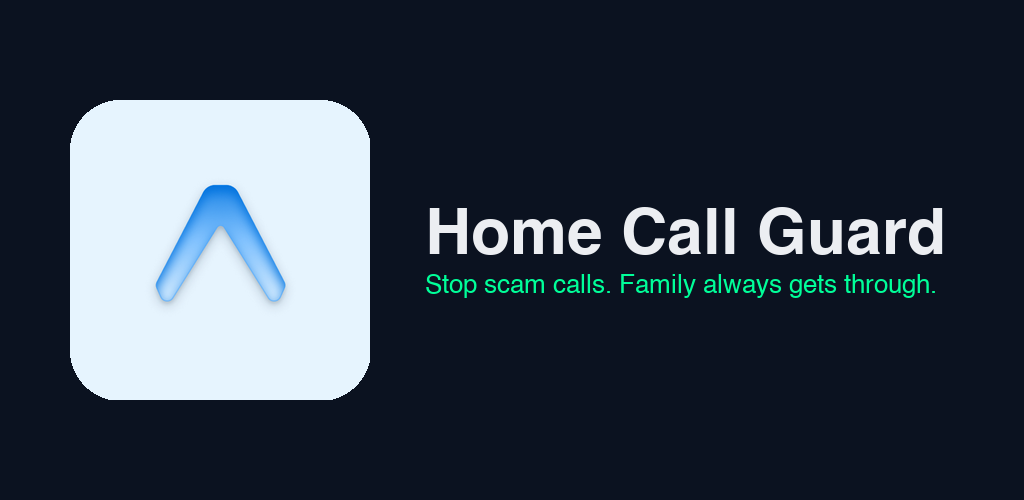
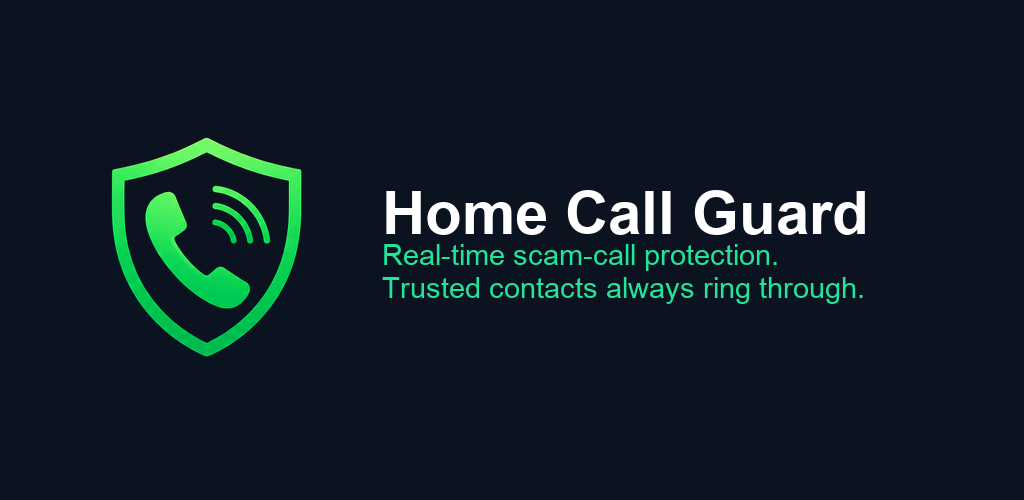
Correct Google Play visual assets to use the real green shield+phone branding
Found during a branding audit that the mobile app was shipping two
conflicting identities: the website (public/logo.png) uses a green
shield+phone mark, but the mobile app's actual configured icon
(mobile/assets/icon.png, wired up in app.config.js) is a completely
different blue chevron. Andrew decided the green shield+phone is
canonical; this work only touches Google Play Store listing assets
under docs/launch/, not the mobile app's own icon/config.

Getting the 512x512 icon right took several iterations:
- First attempt used mobile/assets/shield-mark.png directly - looked
  correct by computed padding, but still showed a clipped bottom point
  in actual Google Play.
- Found the real cause: shield-mark.png itself is a truncated source
  file, with its artwork's bottom edge at the very last pixel row and
  zero internal padding - no amount of external padding could fix it.
- Fixed by extracting the shield fresh from public/logo.png instead,
  which has the complete, genuine pointed bottom. Cropped out the
  wordmark/divider, color-keyed the flat black background to
  transparency, verified the phone's actual pixel colours (green
  gradients) against the source before using it anywhere.

Final assets, both confirmed correct by Andrew:
- docs/launch/google-play-app-icon-512.png (512x512, complete shield,
  generous padding, no cropping)
- docs/launch/play-store-feature-graphic.png (1024x500, same shield +
  "Home Call Guard" + the approved short description from
[…]

Changed region(s): [[0.0625, 0.18, 0.9375, 0.81]]

diff --git a/CURRENT_STATE.md b/CURRENT_STATE.md
@@ -601,3 +601,23 @@ Reported the exact proposed SQL and its production-impact analysis before touchi
 
 New page at `/delete-account.html`, reusing `privacy.html`/`terms.html`'s exact visual design (same CSS, header, footer). Covers: AFMD Ltd identification, how to request deletion (email support@ from the account's own address, state the account and personal data should be deleted), identity verification may be required, 30-day completion target, exactly what's deleted (account info, trusted contacts, call/screening records — now true), what's retained (billing/accounting records only, only for the legally required period), and the cancellation-vs-deletion distinction (confirmed accurate against `routes/billing.js`'s actual Stripe cancellation flow — cancelling never triggers anonymisation). `noindex, follow` (utility page, consistent with how register/login/etc. are already treated). Links to the Privacy Policy. No vendor names or implementation detail anywhere on the page. Checked at 320/360/390/428px and 1440px desktop — zero horizontal overflow, visually clean at both extremes. Full test suite: 795/795 passing.
 
+---
+
+# Google Play visual assets: branding source correction (2026-08-26)
+
+## Branding audit finding
+Inventoried every logo/icon asset across both repos. Found the mobile app was shipping **two conflicting visual identities**: the website (`public/logo.png` and everywhere on homecallguard.co.uk) uses a green shield + phone/signal mark; the mobile app's actual configured icon (`mobile/assets/icon.png`, wired up in `app.config.js`) was a completely different blue chevron mark — confirmed by reading the config directly, not assumed. Andrew decided: **green shield + phone is canonical going forward; the blue chevron is legacy/placeholder.** This session only touched Google Play Store *listing* assets (`docs/launch/`) — no mobile app icon/config files were changed, per explicit instruction to scope this down.
+
+## Multiple iterations were needed to get the 512×512 Play Store icon right
+1. First attempt used `mobile/assets/shield-mark.png` directly, scaled and centered with computed padding — looked correct by the numbers, but Andrew reported the shield's bottom point still looked clipped in actual Google Play.
+2. Investigated further and found the real root cause: **`shield-mark.png` itself is a truncated source file** — its artwork's bottom edge sits at the very last pixel row with zero internal padding, so no amount of external padding/centering could fix it. Confirmed by direct pixel inspection, not assumed.
+3. Fix: extracted the shield fresh from `public/logo.png` instead (which has the complete, genuine pointed/V-shaped bottom — confirmed by zooming into both sources and comparing directly), cropped out the wordmark/divider, color-keyed the flat black background to transparency. Saved as a new, reusable source: `mobile/assets/shield-mark-from-logo-master.png`.
+4. Verified color fidelity before use: sampled the phone handset's actual pixel values (green gradients, e.g. RGB 44,231,89) to confirm it wasn't accidentally white or altered.
+
+## Final approved assets
+- **`docs/launch/google-play-app-icon-512.png`** — 512×512, PNG, RGB, 28.5 KB. Built from `shield-mark-from-logo-master.png`, centered, complete pointed bottom with generous dark padding on every side, no text/badge.
+- **`docs/launch/play-store-feature-graphic.png`** — 1024×500, PNG, RGB, 54.6 KB. Same shield on the left; "Home Call Guard" + the approved Play Store short description from `docs/launch/STORE_LISTING_COPY.md` ("Real-time scam-call protection. Trusted contacts always ring through.") on the right; existing dark HCG background.
+- **`docs/launch/google-play-screenshots/`** — 5 genuine device screenshots selected from `docs/screenshots/mobile-rc1/`, covering protection status, trusted contacts, call activity, setup/activation, and account/membership. One deliberate substitution worth remembering: the populated Trusted Contacts screenshot was **not** used because it displayed what look like real phone numbers next to labels like "Wife (QA trusted contact)" — used the empty/paywall variant instead as a safe placeholder. Andrew may want a proper redacted or fresh-demo-data version before final submission.
+
+Both Andrew-confirmed as correct. No EAS build run, no mobile app config changed, nothing submitted to Google or Apple.
+
